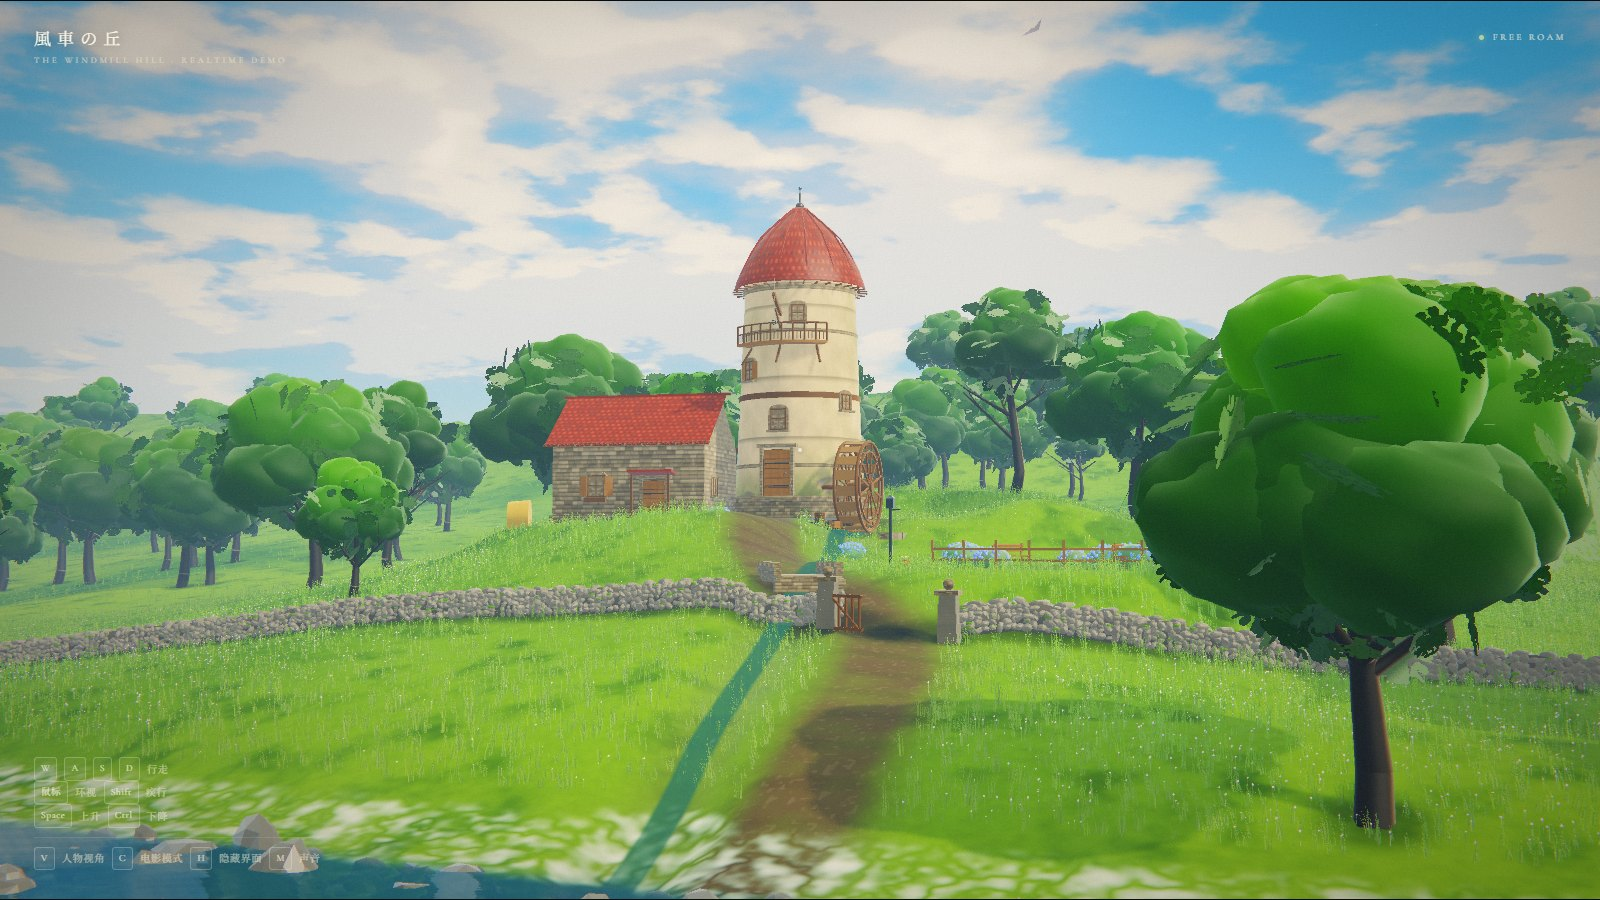
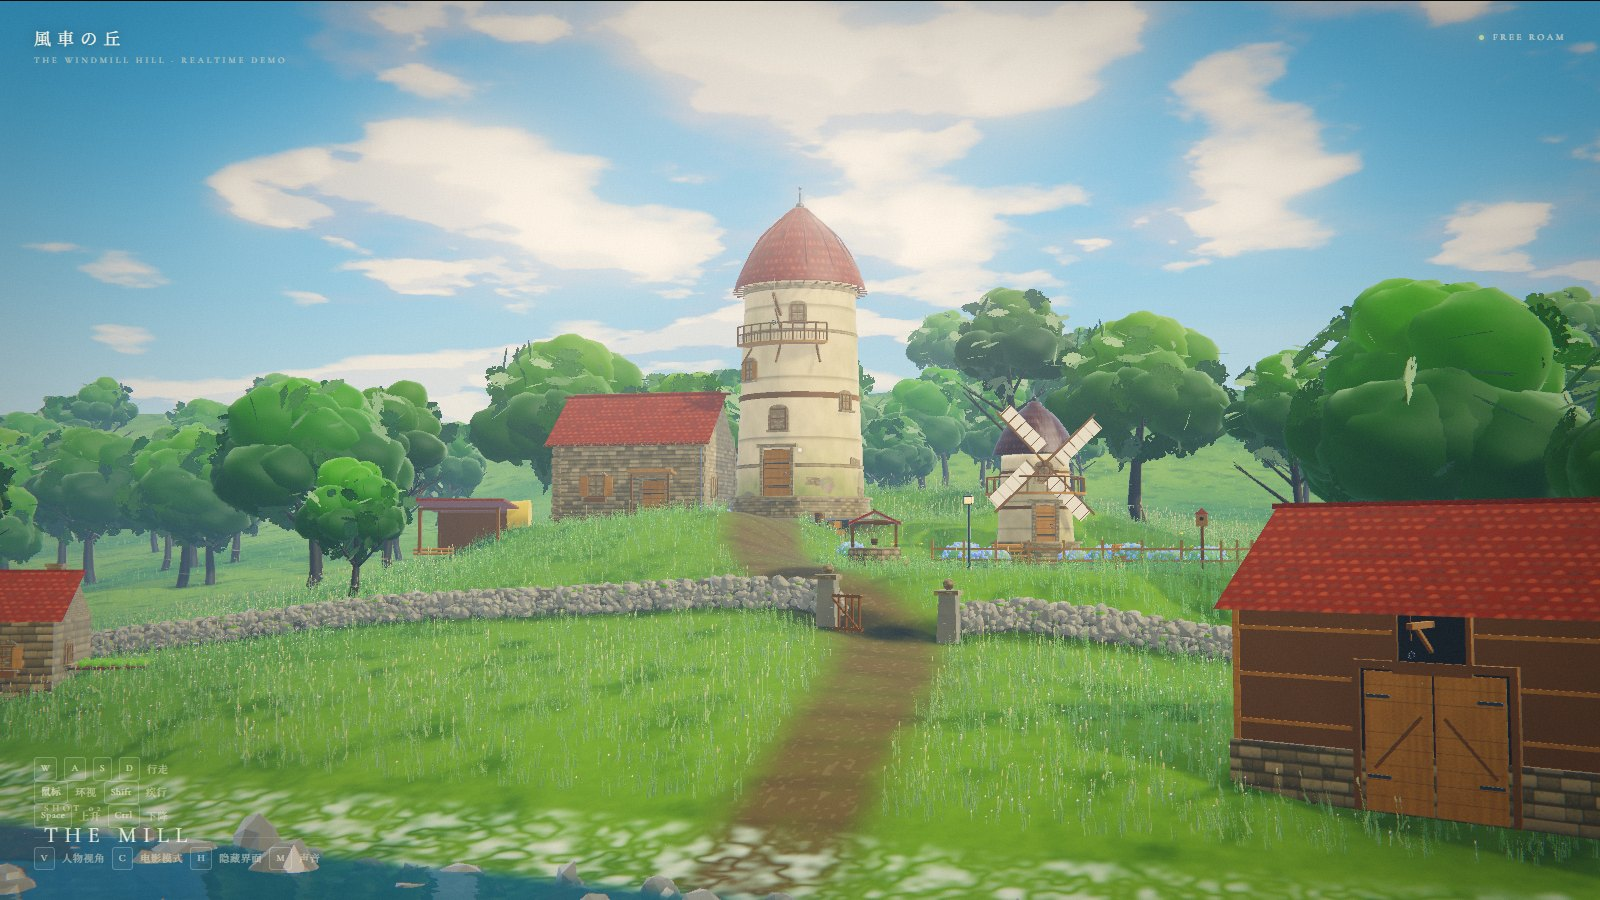
村落建筑细节修正
- 水井重做：原来是一块悬空的红板 + 断开的横梁 + 吊桶凭空挂着
  → 12 块砌石围成井圈、立柱带斜撑、居中横梁 + 绞盘 + 摇柄、绳与吊桶、双坡小顶
- 谷仓：去掉像栅栏的密集竖板条，改三道横向压条；大门加门框/铁铰链，斜撑收小；
  干草阁楼口加木框；吊臂原本穿出屋面，改到屋檐下方水平伸出
- 小屋：屋顶举高 2.0→1.75，不再头重脚轻
- 材质：瓦片法线 1.1→0.28、颜色去饱和，不再像泡泡纸；石墙贴图 2.2→3.4，石块变大不再是砖
- 路灯与井原本重叠 1.4m，挪到 (13.6,19.5)

diff --git a/src/world/village.js b/src/world/village.js
@@ -23,14 +23,12 @@ export function buildBarn(W = 9.0, D = 6.2, H = 4.2, RISE = 2.45) {
   const g = new THREE.Group();
 
   // 石基
-  add(g, box(W + 0.2, 1.25, D + 0.2, 2.4), MAT.stone, 0, 0.62, 0);
+  add(g, box(W + 0.2, 1.25, D + 0.2, 3.4), MAT.stone, 0, 0.62, 0);
   // 木板墙
   add(g, box(W, H - 1.25, D, 1.6), MAT.woodDark, 0, 1.25 + (H - 1.25) / 2, 0);
-  // 竖向板缝
-  const planks = Math.round(W / 0.42);
-  for (let i = 1; i < planks; i++) {
-    const x = -W / 2 + (i / planks) * W;
-    add(g, box(0.035, H - 1.3, 0.04), MAT.wood, x, 1.25 + (H - 1.25) / 2, D / 2 + 0.01);
+  // 横向压条（代替密集竖板条）
+  for (let i = 0; i < 3; i++) {
+    add(g, box(W - 0.1, 0.09, 0.05), MAT.wood, 0, 1.7 + i * 1.05, D / 2 + 0.015);
   }
   // 转角立柱
   for (const sx of [-1, 1]) for (const sz of [-1, 1]) {
@@ -48,21 +46,30 @@ export function buildBarn(W = 9.0, D = 6.2, H = 4.2, RISE = 2.45) {
   }
   add(g, box(W + 0.9, 0.14, 0.2, 1), MAT.roof, 0, H + RISE - 0.02, 0);
 
-  // 大门（双开）
+  // 大门（双开，带门框与斜撑）
+  add(g, box(3.3, 3.15, 0.1), MAT.darkInset, 0, 1.56, D / 2 + 0.02);
   for (const s of [-1, 1]) {
-    const d = add(g, box(1.35, 3.0, 0.09), MAT.wood, s * 0.72, 1.5, D / 2 + 0.03);
-    // 斜撑
-    const brace = add(g, box(0.09, 3.3, 0.05), MAT.woodDark, s * 0.72, 1.5, D / 2 + 0.08);
-    brace.rotation.z = s * 0.42;
+    add(g, box(1.42, 2.96, 0.1), MAT.wood, s * 0.74, 1.5, D / 2 + 0.06);
+    const brace = add(g, box(0.075, 1.55, 0.045), MAT.woodDark, s * 0.74, 1.5, D / 2 + 0.11);
+    brace.rotation.z = s * 0.72;
+    // 铁铰链
+    add(g, box(0.5, 0.07, 0.04), MAT.metal, s * 1.15, 2.45, D / 2 + 0.12);
+    add(g, box(0.5, 0.07, 0.04), MAT.metal, s * 1.15, 0.75, D / 2 + 0.12);
   }
-  add(g, box(3.1, 0.16, 0.22), MAT.woodDark, 0, 3.08, D / 2 + 0.06);
+  add(g, box(3.4, 0.18, 0.26), MAT.woodDark, 0, 3.12, D / 2 + 0.05);
+  add(g, box(0.16, 3.2, 0.22), MAT.woodDark, -1.62, 1.6, D / 2 + 0.05);
+  add(g, box(0.16, 3.2, 0.22), MAT.woodDark, 1.62, 1.6, D / 2 + 0.05);
 
-  // 干草阁楼口
-  add(g, box(1.5, 1.25, 0.12), MAT.darkInset, 0, 3.95, D / 2 + 0.02);
-  add(g, box(1.7, 0.12, 0.2), MAT.woodDark, 0, 4.6, D / 2 + 0.08);
-  // 吊臂
-  g.add(strutMesh(V3(0, 4.5, D / 2 + 0.1), V3(0, 5.1, D / 2 + 1.1), 0.11, MAT.woodDark));
-  add(g, cyl(0.01, 0.01, 0.9, 4, 1), MAT.woodDark, 0, 4.6, D / 2 + 1.0);
+  // 干草阁楼口（带木框）
+  add(g, box(1.42, 1.18, 0.1), MAT.darkInset, 0, 3.62, D / 2 + 0.03);
+  add(g, box(1.62, 0.11, 0.18), MAT.woodDark, 0, 4.24, D / 2 + 0.07);
+  add(g, box(1.62, 0.11, 0.18), MAT.woodDark, 0, 3.0, D / 2 + 0.07);
+  for (const s of [-1, 1]) add(g, box(0.11, 1.3, 0.18), MAT.woodDark, s * 0.76, 3.62, D / 2 + 0.07);
+  // 吊臂：水平伸出，压在屋檐之下
+  add(g, box(0.13, 0.13, 1.35), MAT.woodDark, 0, 4.02, D / 2 + 0.62);
+  g.add(strutMesh(V3(0, 3.45, D / 2 + 0.12), V3(0, 4.0, D / 2 + 0.95), 0.08, MAT.woodDark));
+  add(g, cyl(0.01, 0.01, 0.55, 4, 1), MAT.woodDark, 0, 3.72, D / 2 + 1.22);
+  add(g, new THREE.TorusGeometry(0.06, 0.014, 5, 8), MAT.metal, 0, 3.44, D / 2 + 1.22);
 
   // 小窗
   const w = windowUnit(0.5, 0.62);
@@ -76,11 +83,11 @@ export function buildBarn(W = 9.0, D = 6.2, H = 4.2, RISE = 2.45) {
 /* ============================================================
    石屋：小屋 + 烟囱 + 菜园
    ============================================================ */
-export function buildCottage(W = 6.2, D = 4.6, H = 2.9, RISE = 2.0) {
+export function buildCottage(W = 6.2, D = 4.6, H = 3.0, RISE = 1.75) {
   const g = new THREE.Group();
 
-  add(g, box(W, H, D, 2.2), MAT.stone, 0, H / 2, 0);
-  add(g, box(W + 0.24, 0.4, D + 0.24, 2.2), MAT.stone, 0, 0.2, 0);
+  add(g, box(W, H, D, 3.4), MAT.stone, 0, H / 2, 0);
+  add(g, box(W + 0.24, 0.4, D + 0.24, 3.4), MAT.stone, 0, 0.2, 0);
 
   const roofGeo = gableRoof(W, D, RISE, 0.38, 2.8);
   add(g, roofGeo, MAT.roof, 0, H, 0);
@@ -97,7 +104,7 @@ export function buildCottage(W = 6.2, D = 4.6, H = 2.9, RISE = 2.0) {
   add(g, box(0.64, 0.12, 0.64, 1.8), MAT.stone, W / 2 - 0.9, H + RISE * 0.55 + 0.98, -0.9);
 
   // 门与窗
-  const d = doorUnit(1.0, 2.0);
+  const d = doorUnit(1.0, 2.0, { mat: MAT.woodDark });
   d.position.set(-0.6, 0, D / 2 - 0.02);
   g.add(d);
   const w1 = windowUnit(0.62, 0.78, { shutters: true, box: true });
@@ -144,29 +151,64 @@ export function buildShed(W = 4.2, D = 3.2, H = 2.4) {
 }
 
 /* ============================================================
-   石砌水井
+   石砌水井：砌石井圈 + 木架 + 绞盘 + 吊桶 + 双坡小顶
    ============================================================ */
 export function buildWell() {
   const g = new THREE.Group();
-  // 井圈
-  add(g, cyl(1.05, 1.15, 0.85, 20, 1.6), MAT.stone, 0, 0, 0);
-  add(g, new THREE.TorusGeometry(1.06, 0.09, 6, 20), MAT.stone, 0, 0.86, 0);
-  // 水面
-  const water = new THREE.Mesh(new THREE.CircleGeometry(0.92, 20), MAT.darkInset);
-  water.rotation.x = -Math.PI / 2;
-  water.position.y = 0.62;
-  g.add(water);
-  // 立柱与横梁
-  for (const s of [-1, 1]) {
-    add(g, box(0.12, 1.9, 0.12), MAT.woodDark, s * 0.95, 0.95, 0);
+
+  // 井圈：一圈石块，比整圆柱更像砌筑
+  const N = 12;
+  for (let i = 0; i < N; i++) {
+    const a = (i / N) * Math.PI * 2;
+    const m = add(g, box(0.58, 0.86, 0.26, 2.6), MAT.stone,
+      Math.sin(a) * 0.98, 0.43, Math.cos(a) * 0.98);
+    m.rotation.y = a;
   }
-  add(g, cyl(0.07, 0.07, 2.0, 8, 1), MAT.woodDark, -1.0, 1.86, 0).rotation.z = Math.PI / 2;
-  // 顶棚
-  const roof = add(g, box(2.5, 0.1, 1.4, 2.4), MAT.roof, 0, 2.16, 0);
-  roof.rotation.z = 0.06;
-  // 吊桶
-  add(g, cyl(0.012, 0.012, 0.7, 4, 1), MAT.woodDark, 0, 1.55, 0);
-  add(g, cyl(0.16, 0.13, 0.26, 10, 1), MAT.woodDark, 0, 1.1, 0);
+  // 井沿
+  const rim = new THREE.Mesh(new THREE.TorusGeometry(1.02, 0.075, 6, 26), MAT.stone);
+  rim.rotation.x = Math.PI / 2;
+  rim.position.y = 0.88;
+  rim.castShadow = true;
+  g.add(rim);
+  // 水面
+  const water = new THREE.Mesh(new THREE.CircleGeometry(0.9, 22), MAT.darkInset);
+  water.rotation.x = -Math.PI / 2;
+  water.position.y = 0.55;
+  g.add(water);
+
+  // 立柱
+  for (const s of [-1, 1]) {
+    add(g, box(0.13, 2.05, 0.13), MAT.woodDark, s * 0.92, 1.02, 0);
+    // 斜撑
+    const br = add(g, box(0.07, 0.5, 0.07), MAT.woodDark, s * 0.92, 0.9, 0.16);
+    br.rotation.x = 0.55;
+  }
+  // 横梁（沿 X 贯通）
+  const beamGeo = new THREE.CylinderGeometry(0.07, 0.07, 2.2, 8);
+  beamGeo.rotateZ(Math.PI / 2);
+  add(g, beamGeo, MAT.woodDark, 0, 2.02, 0);
+  // 绞盘
+  const drumGeo = new THREE.CylinderGeometry(0.115, 0.115, 0.62, 12);
+  drumGeo.rotateZ(Math.PI / 2);
+  add(g, drumGeo, MAT.woodDark, 0.28, 2.02, 0);
+  // 摇柄
+  add(g, box(0.05, 0.05, 0.30), MAT.woodDark, 0.62, 2.02, 0.16);
+  add(g, box(0.05, 0.22, 0.05), MAT.woodDark, 0.62, 1.92, 0.30);
+
+  // 绳 + 吊桶
+  add(g, cyl(0.011, 0.011, 0.82, 4, 1), MAT.woodDark, 0, 1.6, 0);
+  add(g, cyl(0.155, 0.125, 0.26, 12, 1), MAT.woodDark, 0, 1.06, 0);
+  add(g, new THREE.TorusGeometry(0.15, 0.016, 5, 12), MAT.metal, 0, 1.16, 0).rotation.x = Math.PI / 2;
+
+  // 双坡小顶（脊沿 Z）
+  for (const s of [-1, 1]) {
+    const panel = add(g, box(1.25, 0.09, 2.35, 2.6), MAT.roof, s * 0.55, 2.2, 0);
+    panel.rotation.z = -s * 0.44;
+  }
+  add(g, box(0.12, 0.1, 2.4, 2.6), MAT.roof, 0, 2.46, 0);
+  // 脊饰
+  add(g, new THREE.SphereGeometry(0.06, 8, 6), MAT.metal, 0, 2.55, 0);
+
   return g;
 }
 

diff --git a/src/core/textures.js b/src/core/textures.js
@@ -330,13 +330,13 @@ export function roofTileTexture(size = 1024) {
       const x = k * cw + (r % 2 ? cw * 0.5 : 0);
       const y = r * rh;
       const tone = 0.82 + rnd() * 0.4;
-      const rr = clamp(158 * tone, 0, 255), gg = clamp(82 * tone, 0, 255), bb = clamp(64 * tone, 0, 255);
+      const rr = clamp(150 * tone, 0, 255), gg = clamp(92 * tone, 0, 255), bb = clamp(76 * tone, 0, 255);
       // 半圆筒瓦
       const grd = g.createLinearGradient(x, 0, x + cw, 0);
-      grd.addColorStop(0, `rgb(${rr * 0.55},${gg * 0.55},${bb * 0.55})`);
-      grd.addColorStop(0.28, `rgb(${rr},${gg},${bb})`);
-      grd.addColorStop(0.62, `rgb(${rr * 1.12},${gg * 1.1},${bb * 1.05})`);
-      grd.addColorStop(1, `rgb(${rr * 0.5},${gg * 0.5},${bb * 0.5})`);
+      grd.addColorStop(0, `rgb(${rr * 0.78},${gg * 0.78},${bb * 0.78})`);
+      grd.addColorStop(0.30, `rgb(${rr},${gg},${bb})`);
+      grd.addColorStop(0.62, `rgb(${rr * 1.04},${gg * 1.03},${bb * 1.02})`);
+      grd.addColorStop(1, `rgb(${rr * 0.74},${gg * 0.74},${bb * 0.74})`);
       g.fillStyle = grd;
       g.beginPath();
       g.moveTo(x, y + rh * 0.92);

diff --git a/src/world/matlib.js b/src/world/matlib.js
@@ -58,8 +58,8 @@ export function initMatlib() {
     fresnel: 0.20, noise: 0.10, noiseScale: 0.7,
   });
   MAT.roof = makeToon({
-    map: TEX.roof, normalMap: TEX.nRoof, normalScale: 1.1, color: 0xffffff, tint: 0xdfc9b4, mapMix: 1,
-    rim: 0.18, rimColor: 0xffd9b0, spec: 0.16, specPower: 22,
+    map: TEX.roof, normalMap: TEX.nRoof, normalScale: 0.28, color: 0xffffff, tint: 0xc9b39c, mapMix: 1,
+    rim: 0.16, rimColor: 0xffd9b0, spec: 0.10, specPower: 18,
     fresnel: 0.14, noise: 0.08, noiseScale: 0.6, saturation: 1.05,
     roughVar: 0.9,
   });

diff --git a/src/world/props.js b/src/world/props.js
@@ -341,7 +341,7 @@ export function placeScenery(scene) {
 
   // 路灯
   const lamp = buildLamp();
-  lamp.position.set(9.2, terrainHeight(9.2, 14.8), 14.8);
+  lamp.position.set(13.6, terrainHeight(13.6, 19.5), 19.5);
   group.add(lamp);
 
   // 鸟屋
